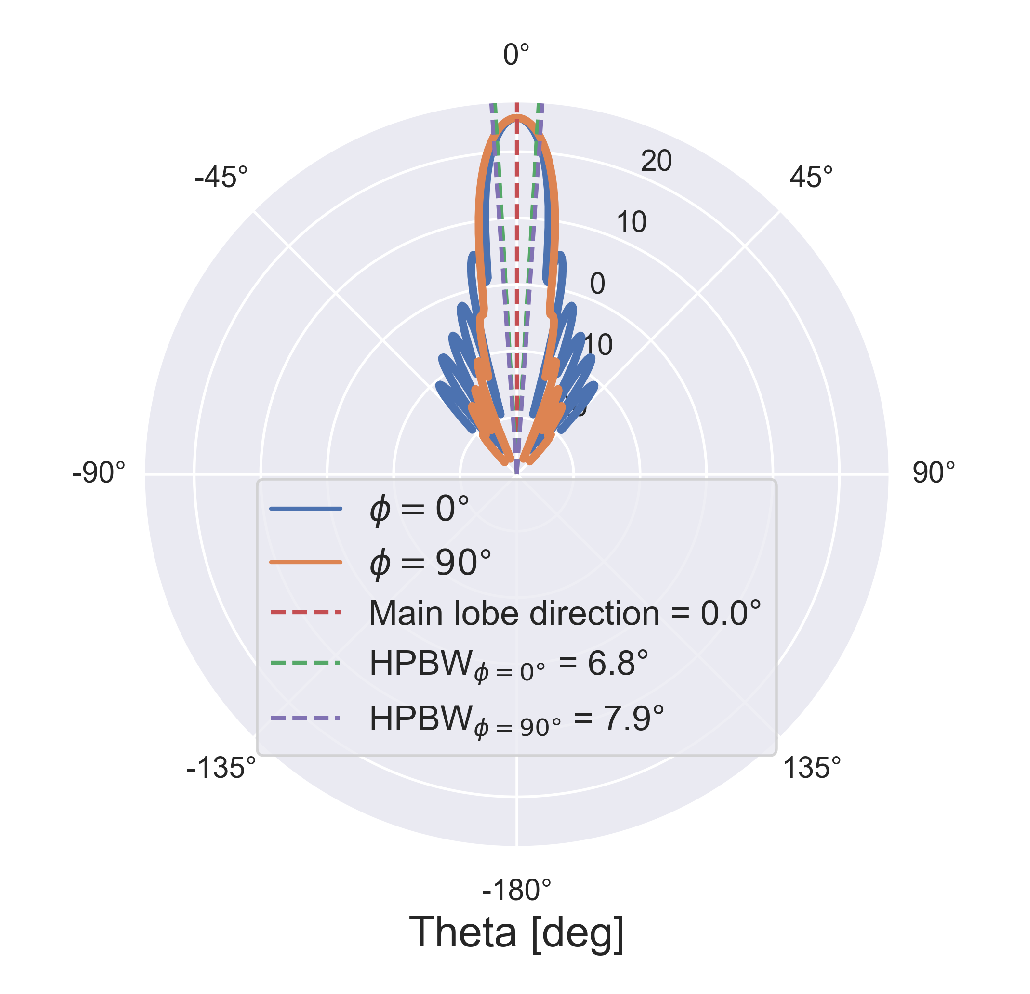
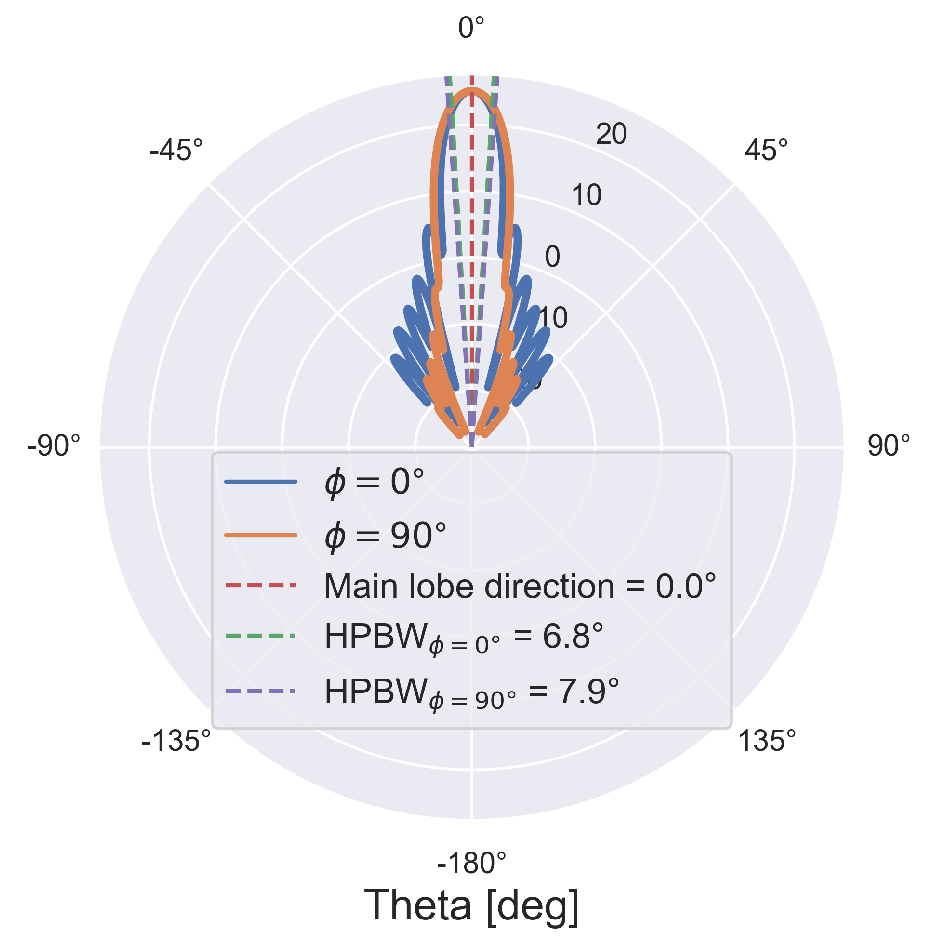
Small changes in theory and in calibration

diff --git a/04-radiotelescope/sections/1-theory-exp-setup.tex b/04-radiotelescope/sections/1-theory-exp-setup.tex
@@ -22,14 +22,14 @@ To make the reverse transformation from Galactic to equatorial (again assuming e
 Where $\alphaNGP = 12^{\text{h}} 51^{\text{m}} 26.28^{\text{s}}$ and $\deltaNGP = 28^{\circ}7' 41.7''$ are the J2000.0 equatorial coordinates of the north Galactic pole ($b = 90^{\circ}$) and $\lNCP = 123^{\circ} 55' 55.2''$ is the J2000.0 Galactic longitude of the north celestial pole.
 
 \subsection{Sources of radio emissions}
-Because of Earth's atmosphere, only two ranges of frequencies are completely open for the observation from the ground of electromagnetic waves coming from space: the optical window, which ranges from ??? to ??? and is studied through optical telescopes, and the wider radio window, which ranges from ??? to ??? and is instead the focus of radio astronomy.
+Because of Earth's atmosphere, only two ranges of frequencies are completely open for the observation from the ground of electromagnetic waves coming from space: the optical window, which ranges from 300 nm to about 700 nm of wavelength and is studied through optical telescopes, and the wider radio window, which ranges from $30$ m to $0.3$ mm (respectevely frequencies of $10$ MHz and $1$ THz) and is instead the focus of radio astronomy \cite{condon_essential_2016}.
 
 Radio emissions originate from a broad range of phenomena.
 A distinction must be made between physical processes which produce continuous radiation over a wider frequency range (mainly thermal processes and synchrotron radiation) and those that result in radiation only in a narrow frequency band, i.e.\ a \emph{spectral line} \cite{lauterbach_radio_2022}.
 \begin{itemize}
-    \item Thermal radiation is the process by which any body with non-zero temperature radiates electromagnetic waves. It is commonly modelled by the continuous black-body radiation of Planck's law \cite{carroll_introduction_2007}.
-    \item Synchrotron emission originates instead from relativistic electrons spiraling along magnetic field lines \cite{maoz_astrophysics_2016}.
-    \item Line sources emit or absorb electromagnetic waves only at very specific frequencies, associated with a transition between states of the electrons in the atomic shell.
+    \item \textbf{Thermal radiation} is the process by which any body with non-zero temperature radiates electromagnetic waves. It is commonly modelled by the continuous black-body radiation of Planck's law \cite{carroll_introduction_2007}.
+    \item \textbf{Synchrotron emission} originates instead from relativistic electrons spiraling along magnetic field lines \cite{maoz_astrophysics_2016}.
+    \item \textbf{Line sources} emit or absorb electromagnetic waves only at very specific frequencies, associated with a transition between states of the electrons in the atomic shell.
 \end{itemize}
 
 \subsection{The hydrogen 21 cm line}
@@ -43,7 +43,7 @@ While this transition is exceptionally rare, with an average lifetime of about $
 \subsection{Estimating the velocity field of the Milky Way}
 Studying the H21 cm radiation allows us to derive the relative velocity of interstellar medium and therefore of other parts of the Milky Way or even other galaxies.
 In fact, when an observer moves relative to a wave source, the frequency of the wave perceived by the observer is different from the emitted wave, according to what is called the Doppler effect.
-The observed frequency $\nu_O$ is linked to the source frequency $\nu_S$ by \hl{[source stp Matteo c'est lequel de tes bouquins lmao]}:
+The observed frequency $\nu_O$ is linked to the source frequency $\nu_S$ by \cite{alonso_fundamental_1983}:
 \begin{equation}
     \nu_O = \frac{c - v_O}{c + v_S} \nu_S
     \label{eq:doppler_general}
@@ -74,19 +74,20 @@ Both reflector and feed need to be suited to the desired operation of the telesc
 The dishes can have different diameters and focal lengths, and
 feeds take several forms, each suited to a certain frequency range and dish geometry \cite{lauterbach_radio_2022}. 
 A thorough study of these parameters is needed to reduce as much as possible the noise captured by the antenna, e.g. the thermal radiation from the ground below the parabola, at a physical temperature of 280-290 K, which can hit the feed from the area outside the reflector (the \emph{spillover}) \cite{burke_introduction_2013}.
-In the case of VEGA, a parabola of diameter $1.86$ m, with a field of view of solid angle around $(7 \pm 1)^{\circ}$ is used to focus the signal on a copper helical feed of circumference $C = 21$ cm, radius $R = 3.34$ cm, pitch spacing $S = 5.25$ cm and pitch angle $\alpha = 14^{\circ}$ \cite{interdisciplinary_project_2022} \cite{rapport_interne_2024}. The antenna pattern, describing the sensibility of the instrument as a function of the incident angle, was simulated in \cite{rapport_interne_2024} using the GRASP software package. The results are shown in \autoref{fig:antenna_pattern}.
-
+In the case of VEGA, a parabola of diameter $1.86$ m, with a field of view of solid angle around $(7 \pm 1)^{\circ}$ is used to focus the signal on a copper helical feed of circumference $C = 21$ cm, radius $R = 3.34$ cm, pitch spacing $S = 5.25$ cm and pitch angle $\alpha = 14^{\circ}$ \cite{interdisciplinary_project_2022} \cite{rapport_interne_2024}, which is depicted in \autoref{fig:antenna_photo}. The antenna pattern, describing the sensibility of the instrument as a function of the incident angle, was simulated in \cite{rapport_interne_2024} using the GRASP software package. The results are shown in \autoref{fig:antenna_pattern}.
 \begin{figure}[htbp]
     \begin{minipage}[t]{0.5\textwidth}
         \centering
-        \includegraphics[width=8cm]{figures/antenna_photo.png}
-        \caption{TEMP}
+        \captionsetup{width=.9\textwidth}
+        \includegraphics[height=6.5cm]{figures/antenna_photo.png}
+        \caption{The copper helical feed in use on VEGA}
         \label{fig:antenna_photo}
     \end{minipage}
     \begin{minipage}[t]{0.5\textwidth}
         \centering
-        \includegraphics[width=8cm]{figures/antenna_pattern.png}
-        \caption{Antenna pattern as simulated using the GRASP software package \cite{rapport_interne_2024}}
+        \captionsetup{width=.9\textwidth}
+        \includegraphics[height=7cm]{figures/antenna_pattern.png}
+        \caption{Antenna pattern of the feed mounted on the dish, as simulated using the GRASP software package \cite{rapport_interne_2024}}
         \label{fig:antenna_pattern}
     \end{minipage}
 \end{figure}

diff --git a/04-radiotelescope/sections/2-results.tex b/04-radiotelescope/sections/2-results.tex
@@ -1,29 +1,21 @@
 \section{Results}
 \subsection{Calibration}
-Due to the construction and hardware of the antenna, the pointing of the antenna doesn't always line up with the target. It is therefore necessary to calibrate it before pointing at distant objects. The Sun being the strongest discrete radio source in the sky \cite{burke_introduction_2013}, mostly due to black body radiation.
-By configuring the antenna to point towards Sun, using its actual coordinates, and scanning the surrounding area in Az/Alt coordinates, the maximum average measured power gives the real position of the Sun in the specific antenna coordinates. The measured power and a linear interpolation of those values shown in \autoref{fig:calibration_contour} gives a correction of
+Due to \hl{small defects in }the construction and hardware of the antenna, the pointing of the antenna doesn't always line up with the target. It is therefore necessary to calibrate it before pointing at distant objects. The Sun \st{being} \hl{is} the strongest discrete radio source in the sky \cite{burke_introduction_2013}, mostly due to black body radiation\hl{, and is therefore an ideal target for the calibration}.
+By configuring the antenna to point towards Sun, using its actual coordinates, and scanning the surrounding area in Az/Alt coordinates, the maximum average measured power gives the real position of the Sun in the specific antenna coordinates. The measured power and a linear interpolation of those values shown in \autoref{fig:calibration_contour} gives a correction \hl{to the pointing} of
 \begin{equation}
-    \textrm{Az: } -5^\circ \qquad \textrm{Alt: } -2^\circ \\
-    \textrm{PLEASE EXECUTE THE NOTEBOOK EXP1 WITH UNCOMMENTED THING IN contourf\_az\_alt}
+    \textrm{Az: } -5.25^\circ \qquad \textrm{Alt: } -2.70^\circ \\
 \end{equation}
-
-
-\hl{OLD STUFF}
-\hl{Details d'où vient le signal etc}.
-The first preliminary measures indicated a maximum of the signal power a point to the bottom left of the sun.
-Therefore a series of measures were made in order to draw a grid to the bottom left of the sun. The position of the sun was recorded for each measure in order to study the relative position.
-By interpolating the obtained values of power, the contour map depicted in \autoref{fig:calibration_contour} was obtained.
-
-[aussi \cite{lauterbach_radio_2022} parle du soleil, section 4.1]
-
 \begin{figure}[htbp]
     \centering
     \includegraphics[scale=1]{figures/calibration_contour.pdf}
-    \caption{Calibration contour}
+    \caption{Interpolation of signal power measured in the proximity of the sun. }
     \label{fig:calibration_contour}
 \end{figure}
 
 \subsection{Distinguishing signal and noise}
+The signal must be cleaned of the [] noise.
+To this end, measures were taken with the telescope pointed towards a nearby building, in order for the spectrum to only contain the noise (same noise which will then appear in actual measures).
+
 Measure BM building, measure actual H21 source, divide actual by noise to extract the signal from noise, apply some filter and voilà, a nice signal
 
 \subsection{Velocity field of the Milky Way}
